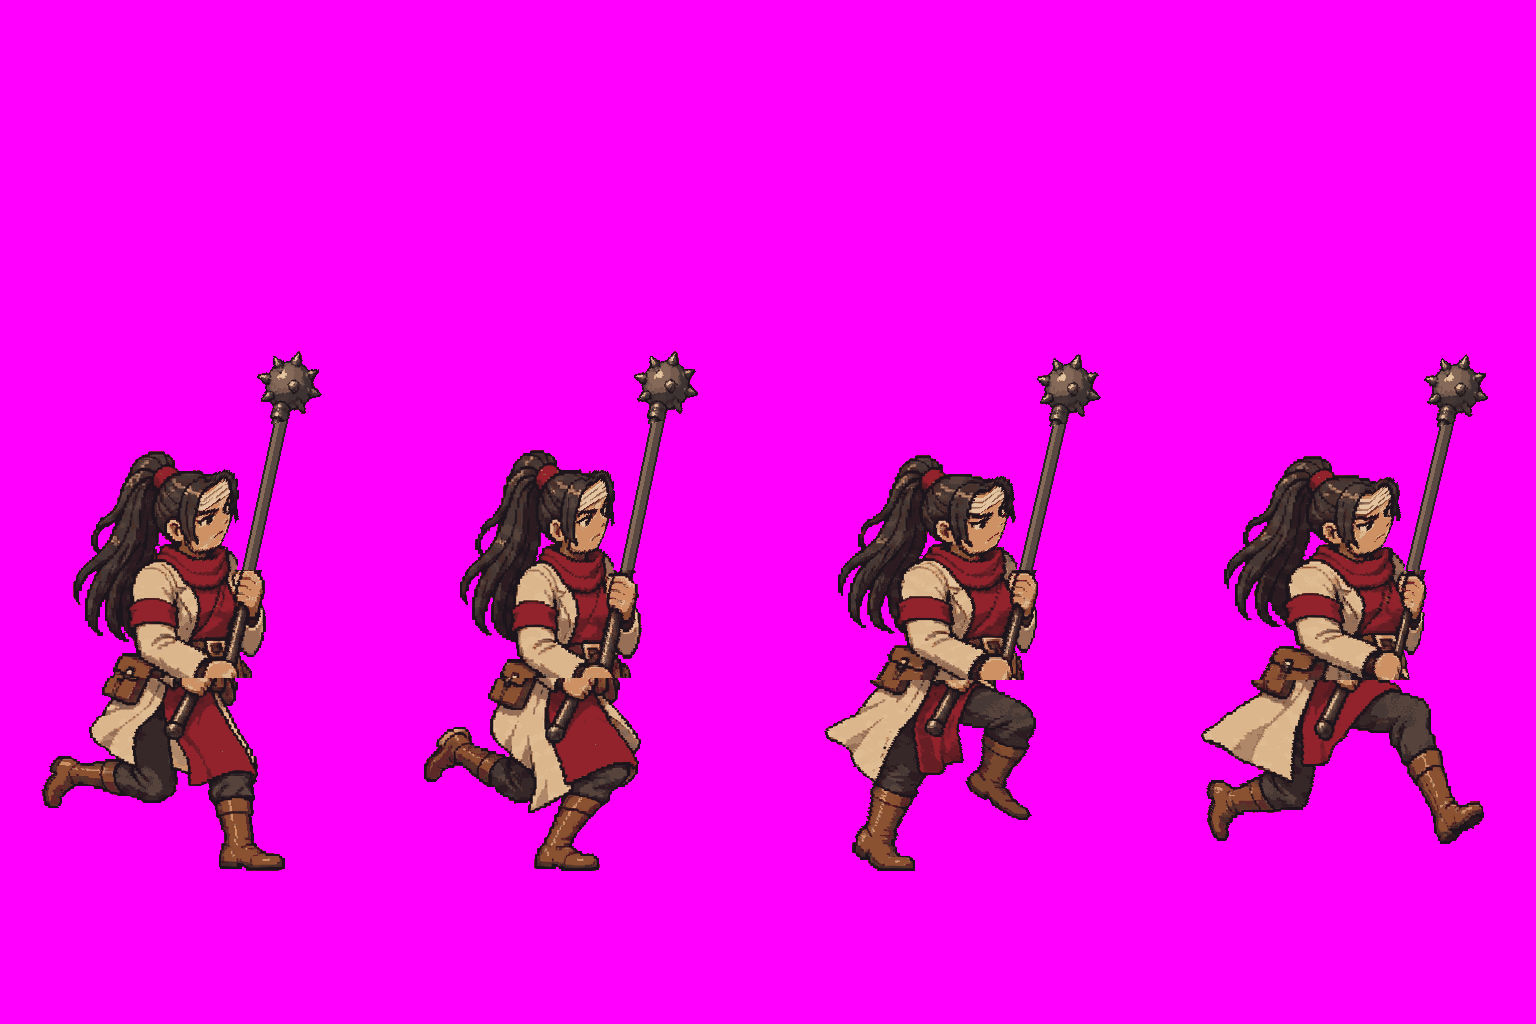
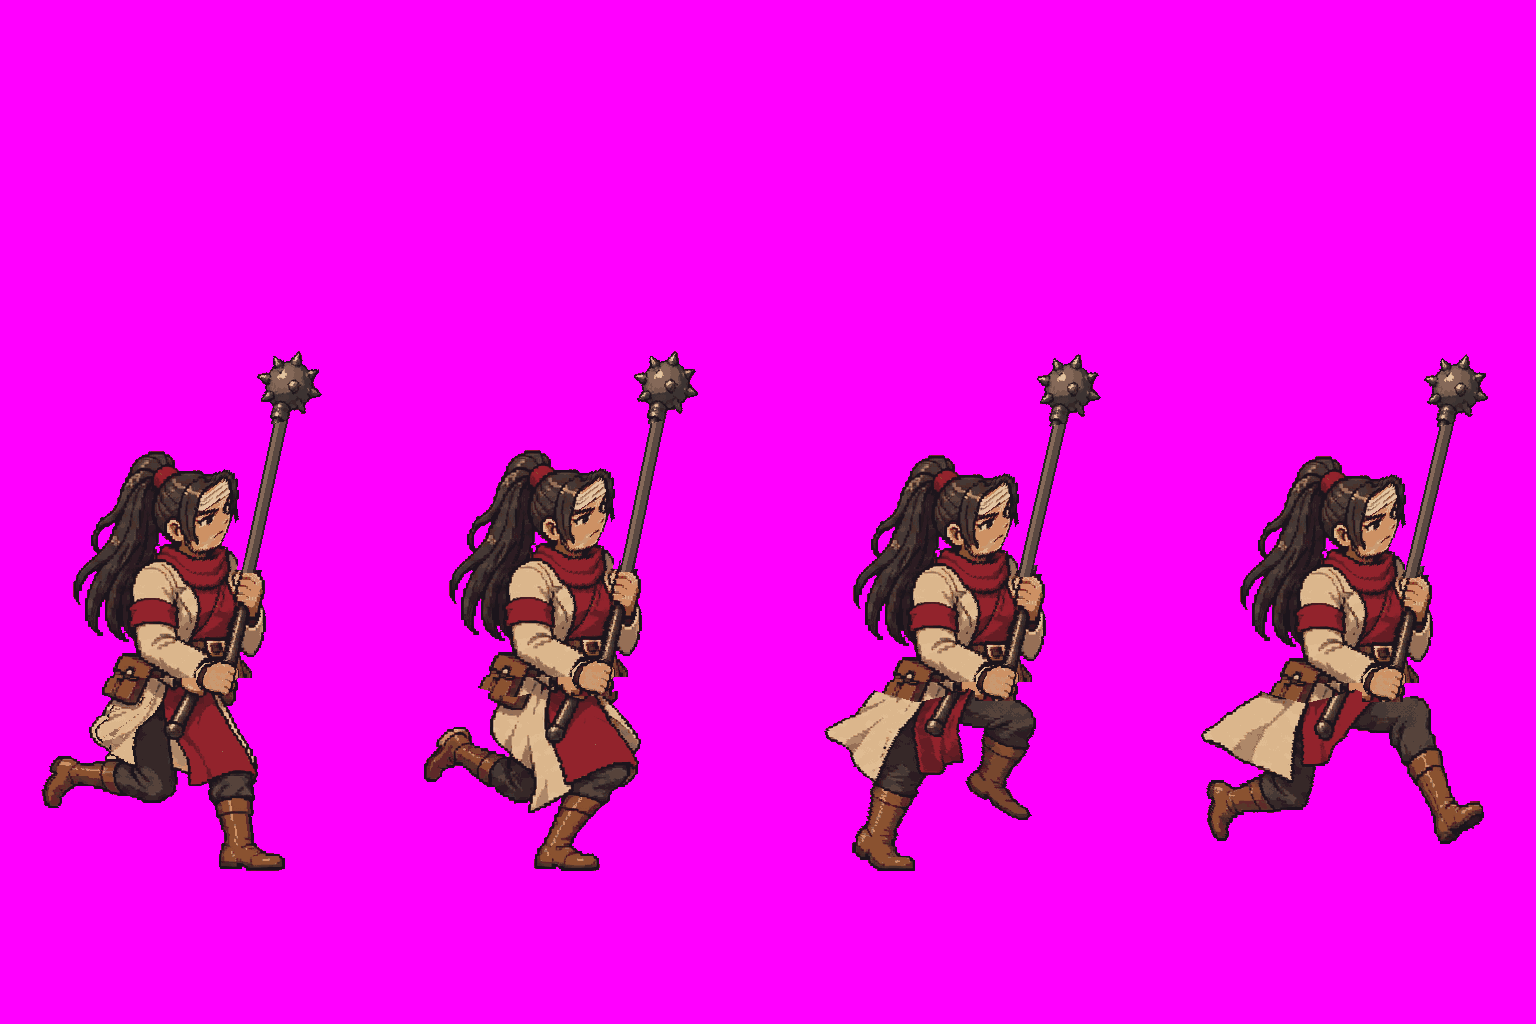
G6-fieldmedic-3d: fix the third-round gait issues without game registration

diff --git a/art/inbox/NOTES.md b/art/inbox/NOTES.md
@@ -1785,3 +1785,52 @@ CHANGED: 세라핀 8칸 새로 그림. 찢긴 장포의 폭과 붉은 띠를 유
 DEVIATIONS: 장포 뒤 무릎과 둔부 관절 일부는 보이지 않는다. 철퇴 손목의 각도는 실측하지 않았다.
 RISKS AT GAME SIZE: 1×에서 발이 장포 끝과 겹치는 순간과 빠른 발 디딤의 가독성은 주인 판정.
 3D GUIDE: 전방 뻗기에서 옷의 밑단보다 앞쪽 부츠가 먼저 읽히도록 했다.
+
+## 3차 다시 그리기 — G6-fieldmedic-3d
+
+CHECK: 후보 띠를 임시 로컬 ref에 넣어 receive.py --no-fetch 실행. 두 띠 PASS, 새 몸 검사 FAIL 0.
+```text
+# sheet_captain_fieldmedic_run (gait frames for sheet_captain_fieldmedic, run) — tip 61b600e
+- art/inbox/gait/sheet_captain_fieldmedic_run_a.png: art-inbox 61b600ed
+- art/inbox/gait/sheet_captain_fieldmedic_run_b.png: art-inbox 61b600ed
+- not a base sheet: sheets.py is never run on these; they are attached to the registered sheet with add_gait.py
+- movement class (tools/art/specs/gait_classes.json): light -> mannequin art/requests/gait/run__captain_fieldmedic/pose.json (gait run); strips checked with --flight-slots 4 (the light run is in the air in slot 4)
+- sheet_captain_fieldmedic_run_a.png (--flight-slots 4): info: pose 4 (flight): 27 px above the guide line (>= 18) | RESULT: PASS
+- sheet_captain_fieldmedic_run_b.png (--flight-slots 4): info: pose 4 (flight): 27 px above the guide line (>= 18) | RESULT: PASS
+- against the 3D request art/requests/gait/run__captain_fieldmedic/pose.json (tools/mannequin3d/delivery.py):
+  WARN: V2 head top vs the guide: painted head-band top - head_top_px = +19 px median (per frame +19 +19 +19 +19 +19 +19 +19 +19) - more than 12 px under the mannequin head: the figure was drawn shorter or sunk (check V1 against the idle)
+  (6 frame lines OK)
+- body against the idle drawing (tools/art/gait_body.py: H1 width pump, H2 same-phase, H3 head aspect, V1 figure height, weapon length, seam):
+    ok: idle art/inbox/sheet_captain_fieldmedic.png: head top y 463, neck y 557, head block 126 px wide
+    ok: head block per frame (sx/sy/top y): F1:1.01/0.90/453 F2:1.01/0.90/452 F3:1.01/0.90/457 F4:1.01/0.90/458 F5:1.01/0.90/453 F6:1.01/0.90/452 F7:1.01/0.90/457 F8:1.01/0.90/458
+    ok: H1 width pump: phase-pair mean head sx 1.013 1.013 1.013 1.013 -> range 0.000 (FAIL > 0.09)
+    ok: H2 same-phase mismatch: |s(n) - s(n+4)| sx 0.000 0.000 0.000 0.000, sy 0.000 0.000 0.000 0.000 -> max 0.000 (FAIL > 0.15)
+    ok: H3 head aspect vs the idle: median sx/sy 1.13 (FAIL < 0.78 or > 1.25)
+    ok: V1 figure height vs the idle: (870 - head-band top) / (870 - idle top 463) = 0.978 median (head-band top 470 469 474 475 470 469 474 475; FAIL < 0.97)
+    ok: WEAPON (mace) rigid length: painted weapon longer (+) / shorter (-) than in frame 1, per frame +0 +1 +0 -1 +0 -1 -2 -1 px -> range 3.1 px (WARN > 12, mace: WARN only)
+    ok: SEAM: strongest row-difference line at y~679 follows the figure (row - head row spread 0 px < row spread 6): a belt or armour line (row y 677, 676, 681, 682, 677, 676, 682 in 7/8 frames, ratio 3.8, 4.7, 3.8, 3.8, 4.2, 4.2, 4.2)
+    ok: gait_body checks took 8 s
+- stride from art/requests/gait/run__captain_fieldmedic/pose.json (step_px 275.0)
+- add_gait.py --dry-run:
+    sheet/captain/fieldmedic: run ← /tmp/pm-round3.ShS39p/magda-receive/gait/sheet_captain_fieldmedic_run_a.png, /tmp/pm-round3.ShS39p/magda-receive/gait/sheet_captain_fieldmedic_run_b.png
+    8 프레임, 배율 0.1654, 칸 96x96, anchor 48,92, 팔레트 40색 (시트의 기본 칸에서)
+    프레임별 맨 아래 픽셀 (바닥 줄 위 게임 px): 1:0 2:0 3:0 4:4 5:0 6:0 7:0 8:4
+    sheet.gait = light (run 칸이 그려진 마네킹의 부류)
+    --dry-run: 시트·manifest 는 그대로. 새 시트 /tmp/pm-round3.ShS39p/magda-receive/add_gait/sheet_captain_fieldmedic.png · 등록될 항목 sheet_captain_fieldmedic.entry.json · 미리보기 sheet_captain_fieldmedic_preview_x4.png
+    sheet/captain/fieldmedic: 시트 384x384, 15칸 — idle(4), attack(2), hit(1), run(8); runStride 45.5
+    다시 붙이는 명령: python3 tools/art/add_gait.py sheet/captain/fieldmedic --gait run --src magda-receive/gait/sheet_captain_fieldmedic_run_a.png magda-receive/gait/sheet_captain_fieldmedic_run_b.png --pose art/requests/gait/run__captain_fieldmedic/pose.json --ms 80
+- register after judging (copy the files in first): python3 tools/art/add_gait.py sheet/captain/fieldmedic --gait run --src art/inbox/gait/sheet_captain_fieldmedic_run_a.png art/inbox/gait/sheet_captain_fieldmedic_run_b.png --pose art/requests/gait/run__captain_fieldmedic/pose.json
+- work folder: /tmp/pm-round3.ShS39p/magda-receive
+- after judging (pass or fail): git checkout 61b600e -- <the delivered paths>   (it then counts as reviewed)
+```
+REFERENCES LOADED: 최신 guide, plain, size 띠 a/b, 비교 GIF 2개, pose.json, 승인 대기 시트·초상, concept.
+CHANGED: R1 상체를 가로 배율 100%로 고정하고 8칸에 평행 이동. 아래 주먹·파우치 주변의 절단선 복구, 짝별 뒤 코트 천을 일부 같은 모양으로 정리. 접지/비행 프레임과 철퇴 바깥 축을 유지.
+DEVIATIONS: (a) V2 머리 띠는 안내보다 +19px, V1 대기 대비 통과. (b) 다리 겹침과 남은 천 디테일로 코트 가시 면적 ±10%는 확인 못 함. (c) 무기 위·아래 끝과 접지 유지; 가려진 손목 각도는 실측하지 않음.
+RISKS AT GAME SIZE: R1/R5와 R3/R7은 서로 다른 앞다리에 천이 가려지므로 실제 발뒤쪽 자락의 가시 면적과 R7 허리 앞 밝은 천 흔들림은 주인 눈으로 재확인. V2 머리 띠 경고는 남음.
+3D GUIDE: 상체에 가로 변형 대신 프레임별 x/y 차이만 적용하는 데 유용했다. 동일 높이의 부속 둘은 원래 뒤쪽과 겹쳐 보인다.
+
+## 판정 — gait/sheet_captain_fieldmedic_run (3차)
+결과: 기술 통과, 주인 시각 판정 대기
+본 방법: 등록 변환 96px 셀과 x4 확대 그림 확인. [대기·전투·달리기 15칸 비교](shots/G6/03-body-width-preview-x4.png). 이번 3차에서는 실전 재생 결과를 다시 측정하지 않음.
+측정: R1–R8 소매·주먹 몸통 기준선 x (한 줄 대표, 뒤→앞): 133→256 / 125→248 / 145→268 / 148→271 / 132→255 / 125→248 / 145→268 / 150→273 (=123px), y=639/638/643/644/639/638/643/644; 완장 상단 16줄을 통째로 잡으면 머리카락과 먼 팔이 겹쳐 폭을 따로 확인하지 못함. 동일 마스크 피부 38×54 및 완장 47×29px (8칸 각각 동일). H1 0.138→0.000, H2 0.063→0.000, 철퇴 길이 검사 범위 3.1px, R4/8 바닥에서 27px.
+남은 걱정: R1/R5와 R3/R7은 서로 다른 앞다리에 천이 가려지므로 실제 발뒤쪽 자락의 가시 면적과 R7 허리 앞 밝은 천 흔들림은 주인 눈으로 재확인. V2 머리 띠 경고는 남음.
